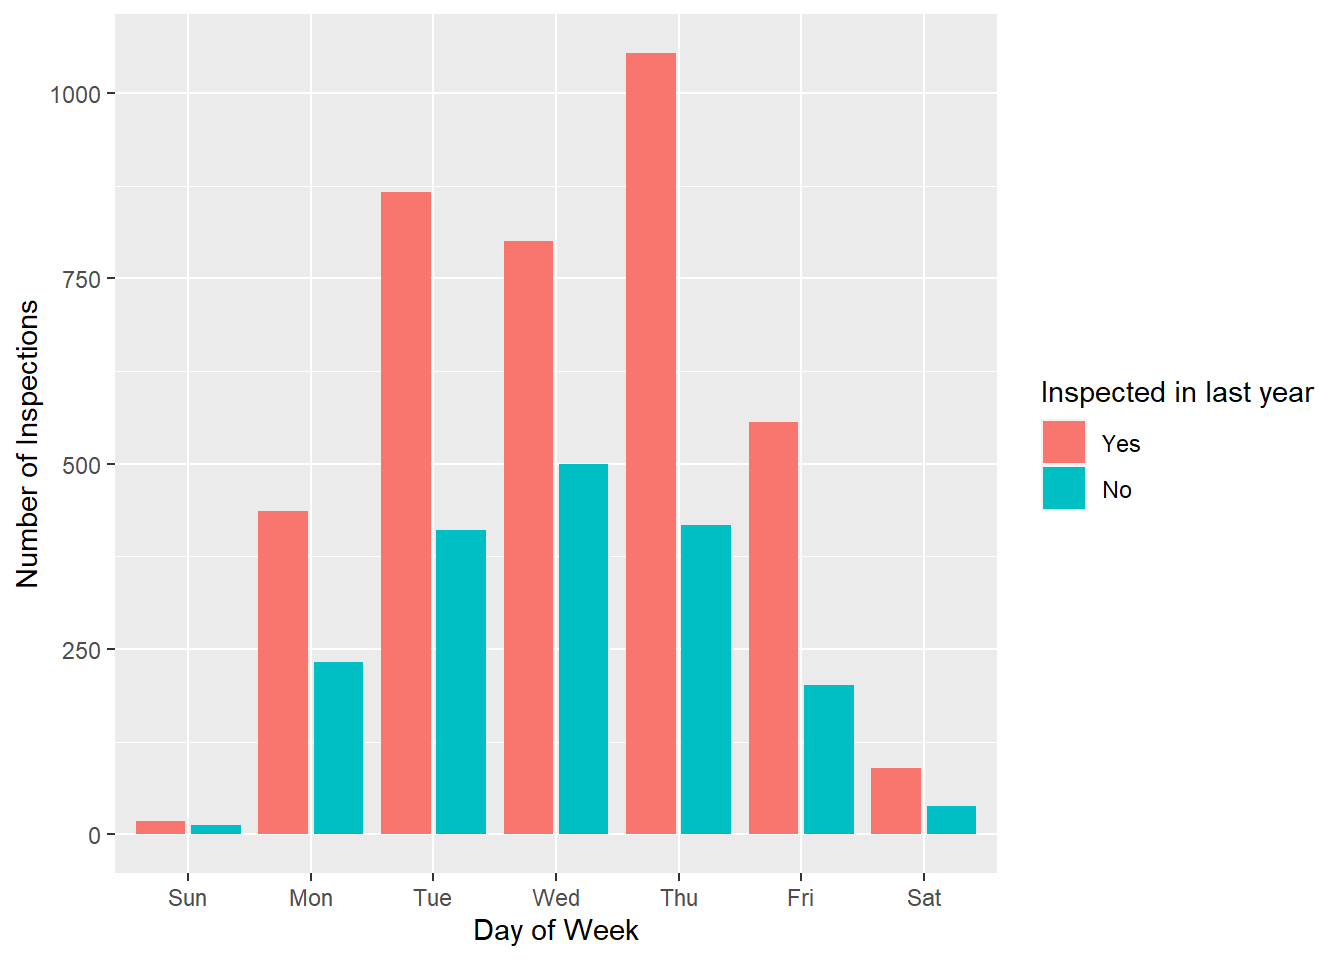
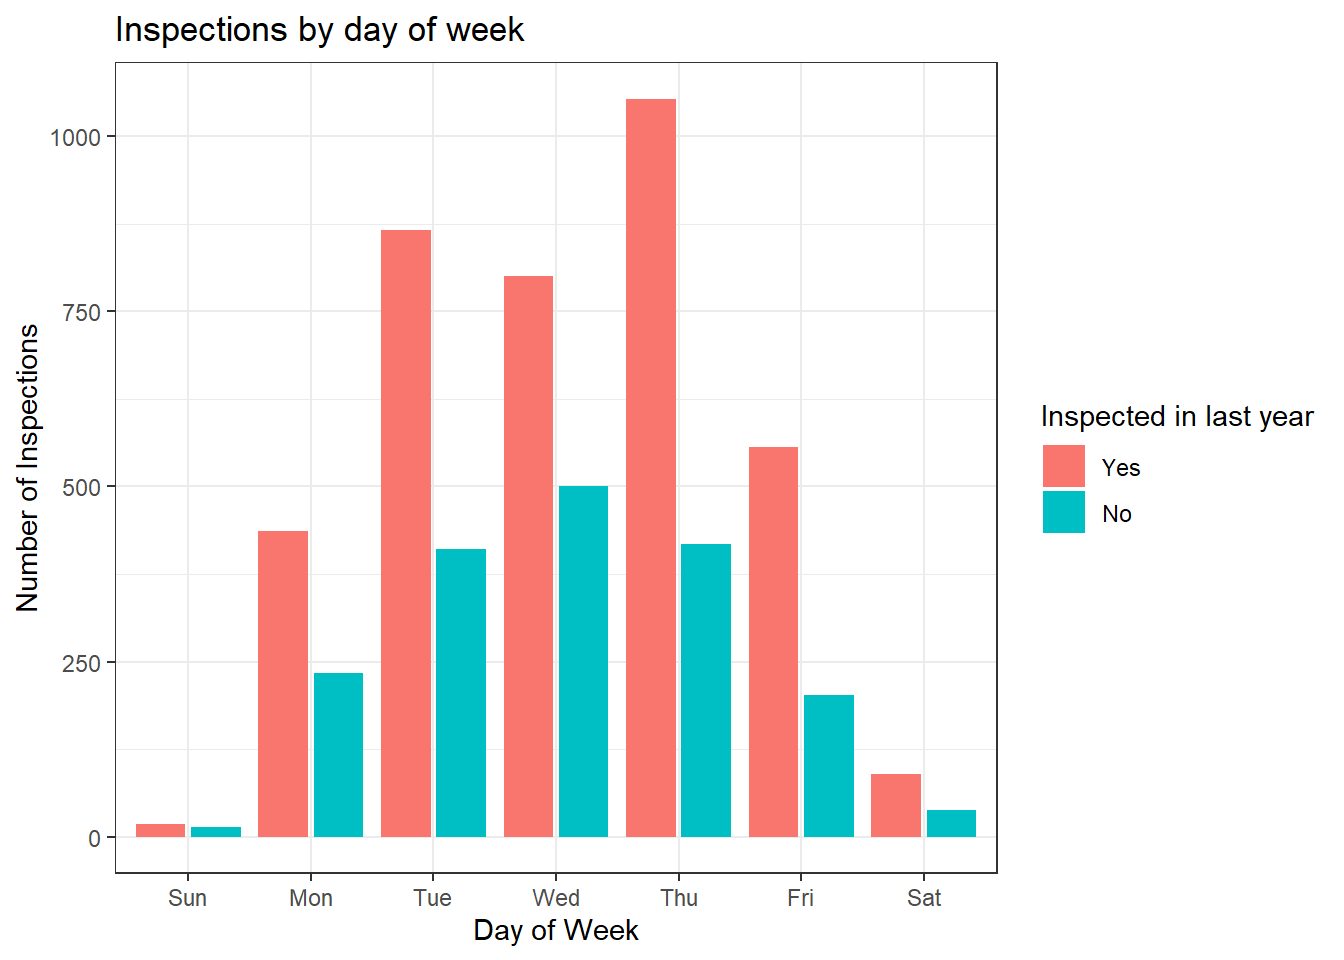
theme trials for inspecting data

diff --git a/docs/exemplar/inspect_df_trial_fire_inspections.html b/docs/exemplar/inspect_df_trial_fire_inspections.html
@@ -375,12 +375,12 @@ code span.wa { color: #60a0b0; font-weight: bold; font-style: italic; } /* Warni
 <span id="cb8-3"><a href="#cb8-3" aria-hidden="true" tabindex="-1"></a>  <span class="fu">group_by</span>(day_of_week, InspWithinLastYear) <span class="sc">%&gt;%</span></span>
 <span id="cb8-4"><a href="#cb8-4" aria-hidden="true" tabindex="-1"></a>  <span class="fu">summarize</span>(<span class="at">N =</span> <span class="fu">n</span>())</span>
 <span id="cb8-5"><a href="#cb8-5" aria-hidden="true" tabindex="-1"></a></span>
-<span id="cb8-6"><a href="#cb8-6" aria-hidden="true" tabindex="-1"></a><span class="co">#glimpse(day_recent)</span></span>
+<span id="cb8-6"><a href="#cb8-6" aria-hidden="true" tabindex="-1"></a></span>
 <span id="cb8-7"><a href="#cb8-7" aria-hidden="true" tabindex="-1"></a></span>
-<span id="cb8-8"><a href="#cb8-8" aria-hidden="true" tabindex="-1"></a><span class="co"># day_recent</span></span>
-<span id="cb8-9"><a href="#cb8-9" aria-hidden="true" tabindex="-1"></a></span>
-<span id="cb8-10"><a href="#cb8-10" aria-hidden="true" tabindex="-1"></a><span class="fu">ggplot</span>(<span class="at">data =</span> day_recent, <span class="fu">aes</span>(<span class="at">x=</span>day_of_week, <span class="at">y=</span>N, <span class="at">fill =</span> InspWithinLastYear)) <span class="sc">+</span> <span class="fu">geom_col</span>(<span class="at">position =</span> <span class="st">'dodge2'</span>) <span class="sc">+</span> </span>
-<span id="cb8-11"><a href="#cb8-11" aria-hidden="true" tabindex="-1"></a>  <span class="fu">labs</span>(<span class="at">x=</span><span class="st">"Day of Week"</span>, <span class="at">y =</span> <span class="st">"Number of Inspections"</span>, <span class="at">fill =</span> <span class="st">"Inspected in last year"</span>)</span></code><button title="Copy to Clipboard" class="code-copy-button"><i class="bi"></i></button></pre></div>
+<span id="cb8-8"><a href="#cb8-8" aria-hidden="true" tabindex="-1"></a><span class="fu">ggplot</span>(<span class="at">data =</span> day_recent, <span class="fu">aes</span>(<span class="at">x=</span>day_of_week, <span class="at">y=</span>N, <span class="at">fill =</span> InspWithinLastYear)) <span class="sc">+</span> <span class="fu">geom_col</span>(<span class="at">position =</span> <span class="st">'dodge2'</span>) <span class="sc">+</span> </span>
+<span id="cb8-9"><a href="#cb8-9" aria-hidden="true" tabindex="-1"></a>  <span class="fu">ggtitle</span>(<span class="st">"Inspections by day of week"</span>) <span class="sc">+</span></span>
+<span id="cb8-10"><a href="#cb8-10" aria-hidden="true" tabindex="-1"></a>  <span class="fu">labs</span>(<span class="at">x=</span><span class="st">"Day of Week"</span>, <span class="at">y =</span> <span class="st">"Number of Inspections"</span>, <span class="at">fill =</span> <span class="st">"Inspected in last year"</span>) <span class="sc">+</span></span>
+<span id="cb8-11"><a href="#cb8-11" aria-hidden="true" tabindex="-1"></a>  <span class="fu">theme_bw</span>()</span></code><button title="Copy to Clipboard" class="code-copy-button"><i class="bi"></i></button></pre></div>
 </details>
 <div class="cell-output-display">
 <p><img src="inspect_df_trial_fire_inspections_files/figure-html/inspection-days-1.png" class="img-fluid" width="672"></p>
@@ -398,29 +398,35 @@ code span.wa { color: #60a0b0; font-weight: bold; font-style: italic; } /* Warni
 <span id="cb9-4"><a href="#cb9-4" aria-hidden="true" tabindex="-1"></a>  <span class="fu">scale_x_continuous</span>(<span class="at">breaks =</span> <span class="fu">c</span>(<span class="dv">0</span>,<span class="dv">4</span>,<span class="dv">8</span>,<span class="dv">12</span>,<span class="dv">16</span>,<span class="dv">20</span>,<span class="dv">24</span>)) <span class="sc">+</span></span>
 <span id="cb9-5"><a href="#cb9-5" aria-hidden="true" tabindex="-1"></a>  <span class="fu">scale_y_continuous</span>(<span class="at">breaks =</span> <span class="fu">c</span>(<span class="fl">0.0</span>, <span class="fl">0.10</span>)) <span class="sc">+</span></span>
 <span id="cb9-6"><a href="#cb9-6" aria-hidden="true" tabindex="-1"></a>  <span class="fu">geom_density</span>(<span class="at">fill=</span><span class="st">'#9FD5B3'</span>, <span class="at">color =</span> <span class="st">'#279989'</span>) <span class="sc">+</span>  <span class="co"># spirit green: #279989 city green: #004445</span></span>
-<span id="cb9-7"><a href="#cb9-7" aria-hidden="true" tabindex="-1"></a>  <span class="fu">ggtitle</span>(<span class="st">"All inspections"</span>) <span class="sc">+</span></span>
-<span id="cb9-8"><a href="#cb9-8" aria-hidden="true" tabindex="-1"></a>  <span class="fu">labs</span>(<span class="at">x=</span><span class="st">"Time of Day (24 hour clock)"</span>, <span class="at">y =</span> <span class="st">"Proportion"</span>) <span class="sc">+</span> </span>
-<span id="cb9-9"><a href="#cb9-9" aria-hidden="true" tabindex="-1"></a>  <span class="fu">theme</span>(<span class="at">axis.ticks.y =</span> <span class="fu">element_blank</span>()) <span class="sc">+</span></span>
-<span id="cb9-10"><a href="#cb9-10" aria-hidden="true" tabindex="-1"></a>  <span class="fu">facet_wrap</span>(<span class="sc">~</span> day_of_week, <span class="at">ncol=</span><span class="dv">1</span>)</span>
-<span id="cb9-11"><a href="#cb9-11" aria-hidden="true" tabindex="-1"></a></span>
-<span id="cb9-12"><a href="#cb9-12" aria-hidden="true" tabindex="-1"></a></span>
+<span id="cb9-7"><a href="#cb9-7" aria-hidden="true" tabindex="-1"></a>  <span class="co"># geom_vline(xintercept = c(8,17), color='#feb70d') +</span></span>
+<span id="cb9-8"><a href="#cb9-8" aria-hidden="true" tabindex="-1"></a>  <span class="fu">ggtitle</span>(<span class="st">"All inspections"</span>) <span class="sc">+</span></span>
+<span id="cb9-9"><a href="#cb9-9" aria-hidden="true" tabindex="-1"></a>  <span class="fu">labs</span>(<span class="at">x=</span><span class="st">"Time of Day (24 hour clock)"</span>, <span class="at">y =</span> <span class="st">"Proportion"</span>) <span class="sc">+</span> </span>
+<span id="cb9-10"><a href="#cb9-10" aria-hidden="true" tabindex="-1"></a>  <span class="fu">theme_minimal</span>() <span class="sc">+</span></span>
+<span id="cb9-11"><a href="#cb9-11" aria-hidden="true" tabindex="-1"></a>  <span class="fu">theme</span>(<span class="at">axis.ticks.y =</span> <span class="fu">element_blank</span>()) <span class="sc">+</span></span>
+<span id="cb9-12"><a href="#cb9-12" aria-hidden="true" tabindex="-1"></a>  <span class="fu">facet_wrap</span>(<span class="sc">~</span> day_of_week, <span class="at">ncol=</span><span class="dv">1</span>)</span>
 <span id="cb9-13"><a href="#cb9-13" aria-hidden="true" tabindex="-1"></a></span>
 <span id="cb9-14"><a href="#cb9-14" aria-hidden="true" tabindex="-1"></a></span>
-<span id="cb9-15"><a href="#cb9-15" aria-hidden="true" tabindex="-1"></a><span class="co"># density plots: time of day by day of week: past year inspections</span></span>
-<span id="cb9-16"><a href="#cb9-16" aria-hidden="true" tabindex="-1"></a>inspections_recent <span class="ot">&lt;-</span> inspections  <span class="sc">%&gt;%</span></span>
-<span id="cb9-17"><a href="#cb9-17" aria-hidden="true" tabindex="-1"></a>  <span class="fu">filter</span>(InspWithinLastYear <span class="sc">==</span> <span class="st">"Yes"</span>) </span>
-<span id="cb9-18"><a href="#cb9-18" aria-hidden="true" tabindex="-1"></a></span>
-<span id="cb9-19"><a href="#cb9-19" aria-hidden="true" tabindex="-1"></a>p2 <span class="ot">&lt;-</span> <span class="fu">ggplot</span>(<span class="at">data =</span> inspections_recent, </span>
-<span id="cb9-20"><a href="#cb9-20" aria-hidden="true" tabindex="-1"></a>            <span class="at">mapping =</span> <span class="fu">aes</span>(<span class="at">x =</span> time_dec)) <span class="sc">+</span> </span>
-<span id="cb9-21"><a href="#cb9-21" aria-hidden="true" tabindex="-1"></a>  <span class="fu">scale_x_continuous</span>(<span class="at">breaks =</span> <span class="fu">c</span>(<span class="dv">0</span>,<span class="dv">4</span>,<span class="dv">8</span>,<span class="dv">12</span>,<span class="dv">16</span>,<span class="dv">20</span>,<span class="dv">24</span>)) <span class="sc">+</span></span>
-<span id="cb9-22"><a href="#cb9-22" aria-hidden="true" tabindex="-1"></a>  <span class="fu">scale_y_continuous</span>(<span class="at">breaks =</span> <span class="fu">c</span>(<span class="fl">0.0</span>, <span class="fl">0.10</span>)) <span class="sc">+</span></span>
-<span id="cb9-23"><a href="#cb9-23" aria-hidden="true" tabindex="-1"></a>  <span class="fu">geom_density</span>(<span class="at">fill=</span><span class="st">'#9FD5B3'</span>, <span class="at">color =</span> <span class="st">'#279989'</span>) <span class="sc">+</span>  <span class="co"># spirit green: #279989 city green: #004445</span></span>
-<span id="cb9-24"><a href="#cb9-24" aria-hidden="true" tabindex="-1"></a>  <span class="fu">ggtitle</span>(<span class="st">"Inspections in last year"</span>) <span class="sc">+</span></span>
-<span id="cb9-25"><a href="#cb9-25" aria-hidden="true" tabindex="-1"></a>  <span class="fu">labs</span>(<span class="at">x=</span><span class="st">"Time of Day (24 hour clock)"</span>, <span class="at">y =</span> <span class="st">"Proportion"</span>) <span class="sc">+</span> </span>
-<span id="cb9-26"><a href="#cb9-26" aria-hidden="true" tabindex="-1"></a>  <span class="fu">theme</span>(<span class="at">axis.ticks.y =</span> <span class="fu">element_blank</span>()) <span class="sc">+</span></span>
-<span id="cb9-27"><a href="#cb9-27" aria-hidden="true" tabindex="-1"></a>  <span class="fu">facet_wrap</span>(<span class="sc">~</span> day_of_week, <span class="at">ncol=</span><span class="dv">1</span>)</span>
-<span id="cb9-28"><a href="#cb9-28" aria-hidden="true" tabindex="-1"></a></span>
-<span id="cb9-29"><a href="#cb9-29" aria-hidden="true" tabindex="-1"></a><span class="fu">grid.arrange</span>(p1, p2, <span class="at">ncol =</span> <span class="dv">2</span>)          <span class="co"># Apply grid.arrange function</span></span></code><button title="Copy to Clipboard" class="code-copy-button"><i class="bi"></i></button></pre></div>
+<span id="cb9-15"><a href="#cb9-15" aria-hidden="true" tabindex="-1"></a></span>
+<span id="cb9-16"><a href="#cb9-16" aria-hidden="true" tabindex="-1"></a></span>
+<span id="cb9-17"><a href="#cb9-17" aria-hidden="true" tabindex="-1"></a><span class="co"># density plots: time of day by day of week: past year inspections</span></span>
+<span id="cb9-18"><a href="#cb9-18" aria-hidden="true" tabindex="-1"></a>inspections_recent <span class="ot">&lt;-</span> inspections  <span class="sc">%&gt;%</span></span>
+<span id="cb9-19"><a href="#cb9-19" aria-hidden="true" tabindex="-1"></a>  <span class="fu">filter</span>(InspWithinLastYear <span class="sc">==</span> <span class="st">"Yes"</span>) </span>
+<span id="cb9-20"><a href="#cb9-20" aria-hidden="true" tabindex="-1"></a></span>
+<span id="cb9-21"><a href="#cb9-21" aria-hidden="true" tabindex="-1"></a>p2 <span class="ot">&lt;-</span> <span class="fu">ggplot</span>(<span class="at">data =</span> inspections_recent, </span>
+<span id="cb9-22"><a href="#cb9-22" aria-hidden="true" tabindex="-1"></a>            <span class="at">mapping =</span> <span class="fu">aes</span>(<span class="at">x =</span> time_dec)) <span class="sc">+</span> </span>
+<span id="cb9-23"><a href="#cb9-23" aria-hidden="true" tabindex="-1"></a>  <span class="fu">scale_x_continuous</span>(<span class="at">breaks =</span> <span class="fu">c</span>(<span class="dv">0</span>,<span class="dv">4</span>,<span class="dv">8</span>,<span class="dv">12</span>,<span class="dv">16</span>,<span class="dv">20</span>,<span class="dv">24</span>)) <span class="sc">+</span></span>
+<span id="cb9-24"><a href="#cb9-24" aria-hidden="true" tabindex="-1"></a>  <span class="fu">scale_y_continuous</span>(<span class="at">breaks =</span> <span class="fu">c</span>(<span class="fl">0.0</span>, <span class="fl">0.10</span>)) <span class="sc">+</span></span>
+<span id="cb9-25"><a href="#cb9-25" aria-hidden="true" tabindex="-1"></a>  <span class="fu">geom_density</span>(<span class="at">fill=</span><span class="st">'#9FD5B3'</span>, <span class="at">color =</span> <span class="st">'#279989'</span>) <span class="sc">+</span>  <span class="co"># spirit green: #279989 city green: #004445</span></span>
+<span id="cb9-26"><a href="#cb9-26" aria-hidden="true" tabindex="-1"></a><span class="co">#  geom_vline(xintercept = c(8,18), color='#004445') +  # , color='#004445'</span></span>
+<span id="cb9-27"><a href="#cb9-27" aria-hidden="true" tabindex="-1"></a><span class="co">#  annotate("text", x = 9.35, y = 0.075, label = "8 AM", size=2.75, color='#004445') +</span></span>
+<span id="cb9-28"><a href="#cb9-28" aria-hidden="true" tabindex="-1"></a><span class="co">#  annotate("text", x = 19.35, y = 0.075, label = "6 PM", size=2.75, color='#004445') +</span></span>
+<span id="cb9-29"><a href="#cb9-29" aria-hidden="true" tabindex="-1"></a>  <span class="fu">ggtitle</span>(<span class="st">"Inspections in last year"</span>) <span class="sc">+</span></span>
+<span id="cb9-30"><a href="#cb9-30" aria-hidden="true" tabindex="-1"></a>  <span class="fu">labs</span>(<span class="at">x=</span><span class="st">"Time of Day (24 hour clock)"</span>, <span class="at">y =</span> <span class="st">"Proportion"</span>) <span class="sc">+</span> </span>
+<span id="cb9-31"><a href="#cb9-31" aria-hidden="true" tabindex="-1"></a>  <span class="fu">theme_minimal</span>() <span class="sc">+</span></span>
+<span id="cb9-32"><a href="#cb9-32" aria-hidden="true" tabindex="-1"></a>  <span class="fu">theme</span>(<span class="at">axis.ticks.y =</span> <span class="fu">element_blank</span>()) <span class="sc">+</span></span>
+<span id="cb9-33"><a href="#cb9-33" aria-hidden="true" tabindex="-1"></a>  <span class="fu">facet_wrap</span>(<span class="sc">~</span> day_of_week, <span class="at">ncol=</span><span class="dv">1</span>)</span>
+<span id="cb9-34"><a href="#cb9-34" aria-hidden="true" tabindex="-1"></a></span>
+<span id="cb9-35"><a href="#cb9-35" aria-hidden="true" tabindex="-1"></a><span class="fu">grid.arrange</span>(p1, p2, <span class="at">ncol =</span> <span class="dv">2</span>)          <span class="co"># Apply grid.arrange function</span></span></code><button title="Copy to Clipboard" class="code-copy-button"><i class="bi"></i></button></pre></div>
 </details>
 <div class="cell-output-display">
 <p><img src="inspect_df_trial_fire_inspections_files/figure-html/Inspections-days-times-1.png" class="img-fluid" width="672"></p>
@@ -451,7 +457,9 @@ code span.wa { color: #60a0b0; font-weight: bold; font-style: italic; } /* Warni
 <details>
 <summary>Code</summary>
 <div class="sourceCode cell-code" id="cb11"><pre class="sourceCode r code-with-copy"><code class="sourceCode r"><span id="cb11-1"><a href="#cb11-1" aria-hidden="true" tabindex="-1"></a><span class="fu">ggplot</span>(tmp_inspections, <span class="fu">aes</span>(<span class="at">x =</span> <span class="fu">fct_infreq</span>(InspectionType_Full))) <span class="sc">+</span> </span>
-<span id="cb11-2"><a href="#cb11-2" aria-hidden="true" tabindex="-1"></a>  <span class="fu">geom_bar</span>() <span class="sc">+</span> <span class="fu">labs</span>(<span class="at">x=</span><span class="st">"Annual Inspection Type"</span>, <span class="at">y=</span><span class="st">"Count"</span>) <span class="sc">+</span> <span class="fu">coord_flip</span>()</span></code><button title="Copy to Clipboard" class="code-copy-button"><i class="bi"></i></button></pre></div>
+<span id="cb11-2"><a href="#cb11-2" aria-hidden="true" tabindex="-1"></a>  <span class="fu">geom_bar</span>(<span class="at">fill=</span><span class="st">'#004445'</span>) <span class="sc">+</span> <span class="fu">labs</span>(<span class="at">x=</span><span class="st">"Annual Inspection Type"</span>, <span class="at">y=</span><span class="st">"Count"</span>) <span class="sc">+</span> <span class="fu">coord_flip</span>() <span class="sc">+</span></span>
+<span id="cb11-3"><a href="#cb11-3" aria-hidden="true" tabindex="-1"></a>  <span class="fu">ggtitle</span>(<span class="st">"Number of Annual Inspections by Type"</span>) <span class="sc">+</span></span>
+<span id="cb11-4"><a href="#cb11-4" aria-hidden="true" tabindex="-1"></a>  <span class="fu">theme_bw</span>()</span></code><button title="Copy to Clipboard" class="code-copy-button"><i class="bi"></i></button></pre></div>
 </details>
 <div class="cell-output-display">
 <p><img src="inspect_df_trial_fire_inspections_files/figure-html/unnamed-chunk-11-1.png" class="img-fluid" width="672"></p>
